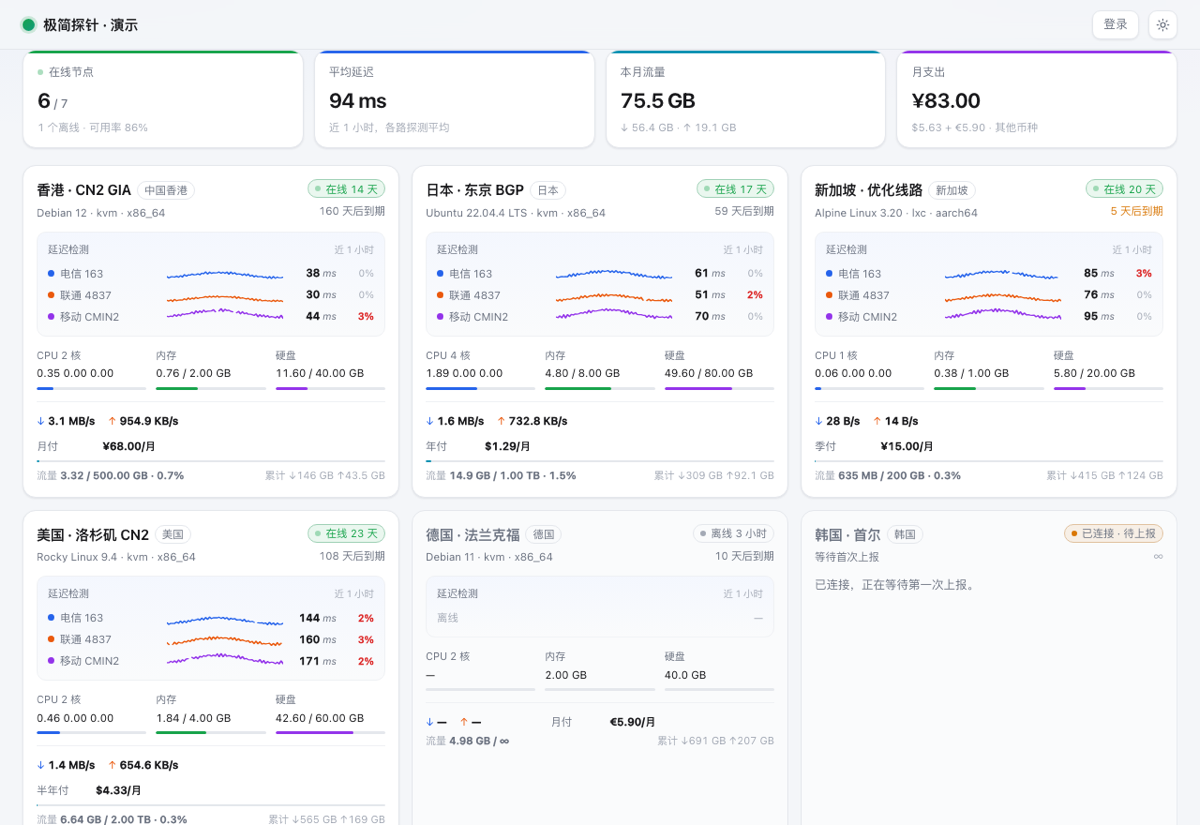
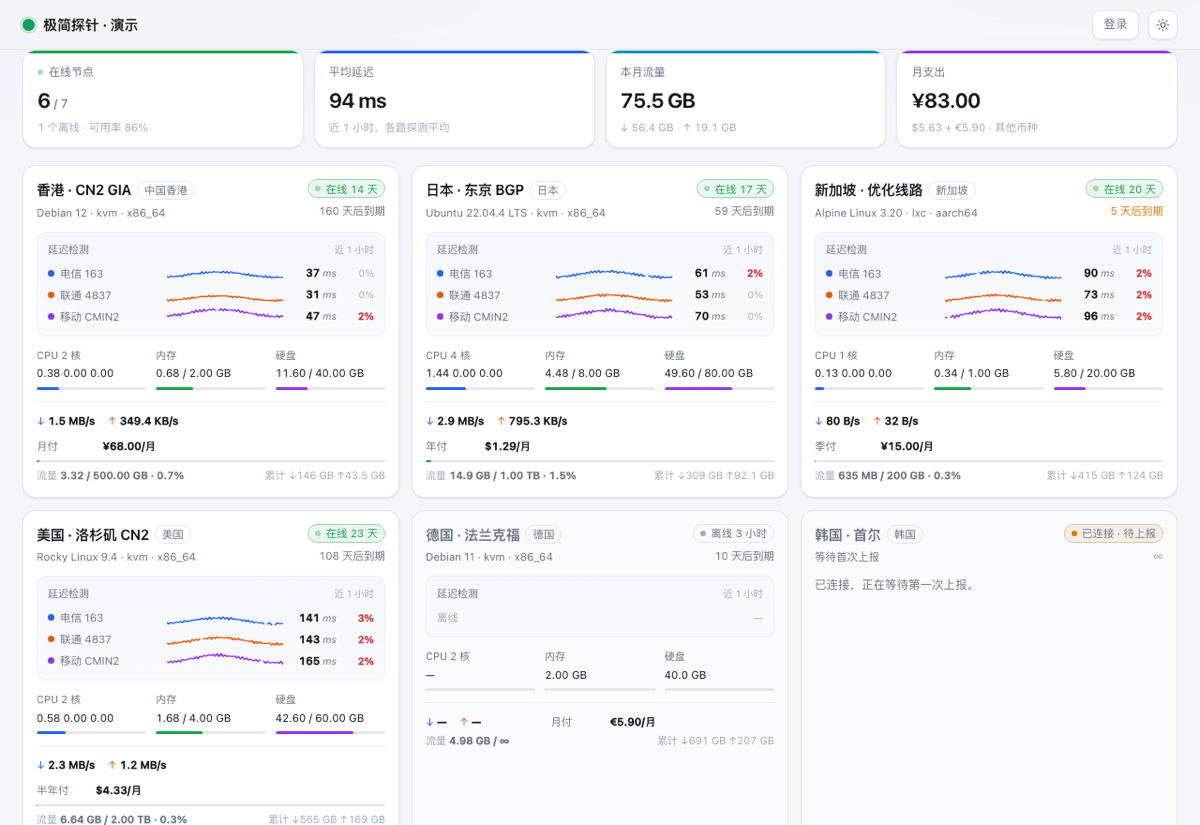
延迟曲线改实线，隔离时折线下加同色面积填充

diff --git a/minimal/dist/index.html b/minimal/dist/index.html
@@ -605,29 +605,34 @@ function svgChart(o){
     if (t < x0 || t > x1) return;
     out.push('<text class="lbl" x="' + sx(t).toFixed(1) + '" y="' + (h-8) + '" text-anchor="middle">' + esc(xFmt(t)) + '</text>');
   });
-  // 折线
+  // 折线。面积填充按连续段分开闭合：超时是断点，整条一起闭合会在断口处拉出
+  // 一条并不存在的直线，等于把丢包画成了一段正常读数。
   series.forEach(function(s, idx){
     var color = s.color || "var(--c1)";
-    var d = "", pen = false, first = null, last = null;
+    var segs = [], cur = [];
     s.points.forEach(function(p){
-      if (!num(p.y)){ pen = false; return; }
-      var X = sx(p.x), Y = sy(p.y);
-      if (first === null) first = X;
-      last = X;
-      d += (pen ? "L" : "M") + X.toFixed(1) + " " + Y.toFixed(1) + " ";
-      pen = true;
+      if (num(p.y)) cur.push(p);
+      else { if (cur.length > 1) segs.push(cur); cur = []; }
     });
-    if (!d) return;
-    if (s.fill && s.points.every(function(p){ return num(p.y); })){
-      out.push('<path d="' + d + 'L' + last.toFixed(1) + ' ' + sy(yMin).toFixed(1) + 'L' + first.toFixed(1) + ' ' +
-        sy(yMin).toFixed(1) + ' Z" fill="' + color + '" fill-opacity=".10" stroke="none"/>');
+    if (cur.length > 1) segs.push(cur);
+    if (!segs.length) return;
+
+    var pathOf = function(seg){
+      var d = "";
+      seg.forEach(function(p, i){ d += (i ? "L" : "M") + sx(p.x).toFixed(1) + " " + sy(p.y).toFixed(1) + " "; });
+      return d.trim();
+    };
+
+    if (s.fill){
+      var base = sy(yMin).toFixed(1);
+      segs.forEach(function(seg){
+        out.push('<path d="' + pathOf(seg) + 'L' + sx(seg[seg.length - 1].x).toFixed(1) + ' ' + base +
+          'L' + sx(seg[0].x).toFixed(1) + ' ' + base + ' Z" fill="' + color +
+          '" fill-opacity=".14" stroke="none"/>');
+      });
     }
-    out.push('<path d="' + d.trim() + '" fill="none" stroke="' + color + '" stroke-width="' + (s.width || 1.6) +
-      '" stroke-linejoin="round" stroke-linecap="round"' + (s.dash ? ' stroke-dasharray="' + s.dash + '"' : '') + '/>');
-    if (o.marker && s.points.length === 1){
-      var p0 = s.points[0];
-      out.push('<circle cx="' + sx(p0.x).toFixed(1) + '" cy="' + sy(p0.y).toFixed(1) + '" r="2.5" fill="' + color + '"/>');
-    }
+    out.push('<path d="' + segs.map(pathOf).join(" ") + '" fill="none" stroke="' + color +
+      '" stroke-width="' + (s.width || 1.6) + '" stroke-linejoin="round" stroke-linecap="round"/>');
   });
   out.push('</svg>');
   return out.join("");
@@ -976,7 +981,6 @@ function renderDetailLive(n){
 }
 
 var PALETTE = ["var(--c1)","var(--c2)","var(--c3)","var(--c4)","var(--c5)"];
-var DASHES = [null, "6 3", "2 3", "10 4 2 4", "1 4"];
 /** 第 i 路探测的颜色。前几路是蓝 / 橙 / 紫，深浅两种主题下都能一眼分开。 */
 function probeColor(i){ return PALETTE[((i % PALETTE.length) + PALETTE.length) % PALETTE.length]; }
 /** 某一路在列表里的位置。隔离后仍按这个位置取色，颜色不会跳。 */
@@ -1016,11 +1020,13 @@ function renderLatency(){
   if (only != null) all.forEach(function(p){ if (p.id === only) onlyName = p.name; });
   var shown = onlyProbe(all, only);
 
-  // 颜色按在完整列表里的位置取，来回切换隔离时同一路的颜色不会变
+  // 色板已经足够区分，不再叠虚线。隔离时单曲线加粗，并在折线下填一层同色面积，
+  // 断口按段分开填充（见 svgChart）。
+  var isolated = shown.length === 1;
   var series = shown.map(function(p){
     var i = probeIndex(all, p.id);
-    return { name: p.name, color: probeColor(i), dash: DASHES[i % DASHES.length],
-      points: p.points, fill: shown.length === 1 };
+    return { name: p.name, color: probeColor(i), points: p.points,
+      fill: isolated, width: isolated ? 2 : 1.6 };
   });
 
   var chartOpts = { series: series, h: 200, padL: 50, xFmt: clockFor(hours),

diff --git a/README.md b/README.md
@@ -23,6 +23,10 @@ monitor 探针的公开状态页主题。纯静态 SPA，**零依赖、零构建
 
 三者可以叠加：先削峰去离群点，再平滑压抖动，最后隔离出要看的那一路。
 
+曲线一律是**实线**——色板本身就够区分，再叠虚线只是噪声。隔离单路时线会加粗，并在折线下填一层**同色半透明面积**，让这一路的起伏更容易读。
+
+面积填充按**连续段**分开闭合：超时是断点，整条一起闭合会在断口处拉出一条并不存在的直线，等于把丢包画成了一段正常读数。
+
 两个刻意的取舍：
 
 - **超时是断点，不是读数**。削峰和平滑都跳过 `null`，也不把它算进邻域——否则丢包在曲线上会被平均填平，看不见了。
